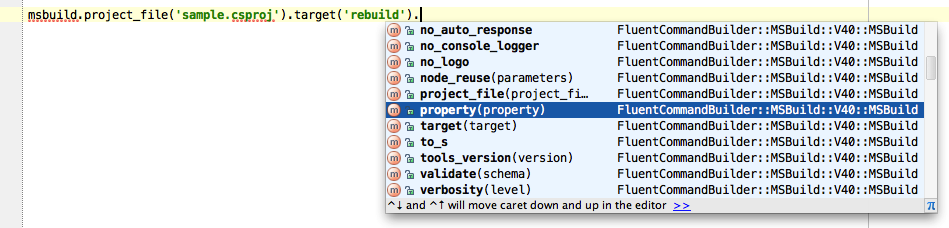
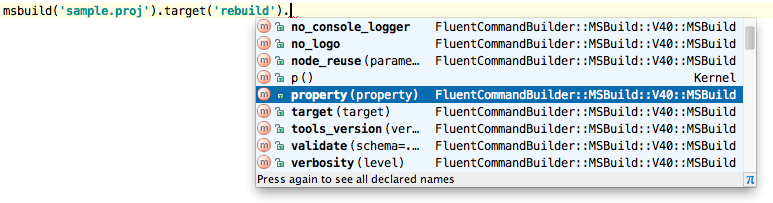
update intellisense picture and readme

diff --git a/README.md b/README.md
@@ -7,12 +7,12 @@ Each supported command is represented by a class that provides a fluent interfac
 ## Example
 
 ```ruby
-msbuild('sample.csproj').target(['clean', 'build']).property({'configuration'=>'release'})
+msbuild('sample.proj').target(['clean', 'build']).property({'configuration'=>'release'})
 ```
 
 Produces:
 
-    MSBuild sample.csproj /target:clean;build /property:configuration=release
+    MSBuild sample.proj /target:clean;build /property:configuration=release
 
 ## Intellisense
 
@@ -37,7 +37,7 @@ require 'fluent_command_builder'
 include FluentCommandBuilder::MSBuild::V40
 include FluentCommandBuilder::Nunit::V25
 
-msbuild('sample.csproj').target('rebuild').property({'configuration'=>'release'}).execute!
+msbuild('sample.proj').target('rebuild').property({'configuration'=>'release'}).execute!
 nunit('sample.dll').include('unit_tests').exclude('integration_tests').execute!
 ```
 
@@ -49,7 +49,7 @@ The second scenario involves calling a method for a specific version of each com
 require 'fluent_command_builder'
 include FluentCommandBuilder
 
-msbuild_40('sample.csproj').target('rebuild').property({'configuration'=>'release'}).execute!
+msbuild_40('sample.proj').target('rebuild').property({'configuration'=>'release'}).execute!
 nunit_25('sample.dll').include('unit_tests').exclude('integration_tests').execute!
 ```
 
@@ -62,20 +62,22 @@ Notice how the version number forms part of the method itself.
 At any point along the chain, the __execute!__ method may be called to execute the command:
 
 ```ruby
-msbuild('sample.csproj').target('rebuild').property({'configuration'=>'release'}).execute!
+msbuild('sample.proj').target('rebuild').property({'configuration'=>'release'}).execute!
 ```
+
+The __execute!__ method executes the command using Rake's __sh__ method.
 
 #### The "to_s" method
 
 At any point along the chain, the __to_s__ method may be called to get the command string:
 
 ```ruby
-command = msbuild('sample.csproj').target('rebuild').property({'configuration'=>'release'}).to_s
+command = msbuild('sample.proj').target('rebuild').property({'configuration'=>'release'}).to_s
 ```
 
 This approach enables custom execution of a command which could be useful in the following scenarios:
 
-- Executing the command by a means
+- Executing the command by a means other than Rake's to_s method.
 - Remote execution, e.g. SSH
 - Deferred execution
 - Concatenation with another command
@@ -89,12 +91,12 @@ An array can be passed to an argument that allows multiple values.
 Fluent Command Builder will format the list using the appropriate delimiter:
 
 ```ruby
-msbuild('sample.csproj').target(['clean', 'build'])
+msbuild('sample.proj').target(['clean', 'build'])
 ```
 
 Produces:
 
-    MSBuild sample.csproj /target:clean;build
+    MSBuild sample.proj /target:clean;build
 
 Notice how target is an array and has been formatted as a semicolon delimited list.
 
@@ -104,12 +106,12 @@ A hash can be passed to an argument that expects key-value pairs.
 Fluent Command Builder will format the key-value pairs using the appropriate delimiters:
 
 ```ruby
-msbuild('sample.csproj').property({'configuration'=>'release'})
+msbuild('sample.proj').property({'configuration'=>'release'})
 ```
 
 Produces:
 
-    MSBuild sample.csproj /property:configuration=release
+    MSBuild sample.proj /property:configuration=release
 
 Notice how property is a hash and has been formatted using the equals sign.
 
@@ -118,12 +120,12 @@ Notice how property is a hash and has been formatted using the equals sign.
 Fluent Command Builder will surround any argument containing a space with double quotes automatically:
 
 ```ruby
-msbuild('sample 1.csproj')
+msbuild('sample 1.proj')
 ```
 
 Produces:
 
-    MSBuild "sample 1.csproj"
+    MSBuild "sample 1.proj"
 
 Notice the space in the project name and how the output has surrounded the project name with double quotes.
 
